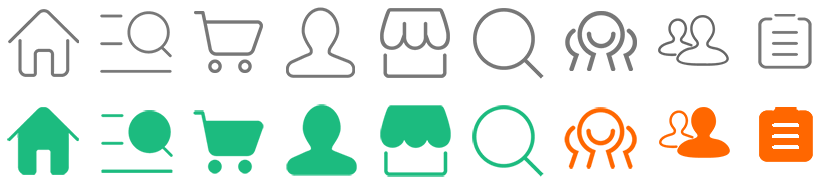
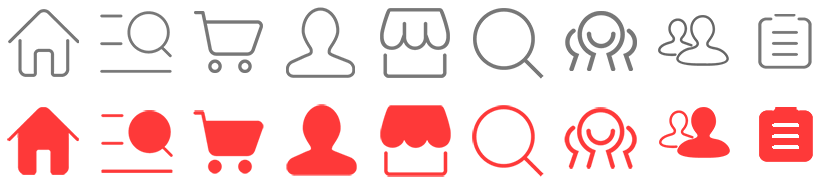
优化微筹

diff --git a/themes/default/team/css/ectouch.css b/themes/default/team/css/ectouch.css
@@ -1422,19 +1422,19 @@ h4.title-hrbg hr{background:#f6f6f9;height:1px;border:0;position:absolute;left:0
 .fly_item {z-index: 49999; border:1px solid #ccc;width:30px; height: 30px;border-radius: 100%; overflow: hidden; position: absolute; visibility: hidden; opacity: .9;}
 /*二维码*/
 .ect-header-banner{background:rgba(53,53,53,1); height:5rem; line-height:5rem; width:100%; color: #fff;moz-transition : 0.5s ease ;-o-transition: 0.5s ease;-webkit-transition :0.5s ease;    padding: 0 0.6 rem;}
-.ect-header-banner.active{display:none;moz-transition : 0.5s ease ;-o-transition: 0.5s ease;-webkit-transition :0.5s ease;    padding: 0 0.6 rem;}
+.ect-header-banner.active{display:none;moz-transition : 0.5s ease ;-o-transition: 0.5s ease;-webkit-transition :0.5s ease;    padding: 0 0.6rem;}
 .ect-header-banner i{color:#fff; font-size:2rem; margin-left:1rem;}
 .ect-header-banner img{width:3.4rem; height:auto; margin-left:2rem; margin-top:0.8rem;}
 .ect-header-banner .ect-header-text{padding-left:1.1rem; margin-top:1.1rem;}
 .ect-header-banner h4{font-size:1.5rem; line-height: 1.3rem;}
 .ect-header-banner p{font-size:1.3rem; color:#ccc;line-height: 1.9rem;}
-.ect-header-banner .btn-submit1{padding:.6rem 1rem; margin-top:-.3rem;border-radius: .4rem; font-size:1.3rem; margin-right:2rem; color:#fff; border-color:#1cbb7f;background:#1cbb7f;}
-.ect-header-banner .btn-submit1:hover{border-color:#1cbb7f;background:#1cbb7f;}
+.ect-header-banner .btn-submit1{padding:.6rem 1rem; margin-top:-.3rem;border-radius: .4rem; font-size:1.3rem; margin-right:2rem; color:#fff; border-color:#fe3939;background:#fe3939;}
+.ect-header-banner .btn-submit1:hover{border-color:#fe3939;background:#fe3939;}
 .index-weixin-box{margin:0 auto;position:fixed;top:20%;left:20%;right:20%;z-index: 16;background: #fff;padding: 0.5rem; box-shadow: 0px 5px 10px rgba(0,0,0,0.6);border-radius: 0.5rem;display:none}
 .index-weixin-box div img{width:100%;}
 .index-weixin-box p{font-size:1.5rem;color:#888;}
 .index-bg-box{background:rgba(0,0,0,0.8);position:fixed;top:0;left:0;right:0;bottom:0;z-index:15;display:none}
 .index-weixin-box label{position:absolute;right:-2rem;top:-4rem;background:rgba(255,255,255,0.7);padding:0.5rem;height: 2rem;width:2rem;border-radius:100%;}
 .index-weixin-box label i{display:block;text-align:center;line-height:2rem;color:#888}
-.index-weixin-box h3{font-size:1.6rem;color:#1cbb7f;text-align:center;}
+.index-weixin-box h3{font-size:1.6rem;color:#fe3939;text-align:center;}
 .index-weixin-box.active,.index-bg-box.active{display:block;}

diff --git a/themes/default/statics/css/ectouch.css b/themes/default/statics/css/ectouch.css
@@ -2687,7 +2687,7 @@ span.raise-pro-right{position: absolute;top:25%;right:1.2rem;}
 .btn-submit-raise:hover {border:1px solid #fe3939;background:#fe3939;}/*主提交按钮按下颜色*/
 .raise-cate-nav li.current {color:#fe3939;outline:none;}
 .goods-fixed-raise{position:fixed;top:0;z-index:199;width:100%;max-width:640px;background:rgba(255,255,255,0);}
-.goods-fixed-raise.active{background:rgba(255,103,0,0.96);box-shadow: 1px 0px 4px rgba(50,50,50,0.3);}
+.goods-fixed-raise.active{background:rgba(254,57,57,0.96);box-shadow: 1px 0px 4px rgba(50,50,50,0.3);}
 .goods-header-nav-box-raise li a{color:rgba(255,255,255,0.8);display:block;}	
 .goods-header-nav-box-raise li a.hover{color:#fff;border-bottom:1px solid #fff;}
 .tab-title-raise.active,.tab-title-raise.active a{color:#fe3939}
@@ -2905,3 +2905,6 @@ h5.title-hrbg {font-size: 1.3rem;position: relative; z-index:1; height: 4rem;lin
 h5.title-hrbg span {background: #e7e8ef;padding: 1rem .6rem;font-size: 1.5rem; z-index: 10;}
 h5.title-hrbg hr {background: #CCCBD9;height: 1px;border: 0;position: absolute;left: 0;right: 0;top: 50%;margin-top: 1px;z-index: -1;}
 .n-cate-box-1 .icon-biaoqingleiben{font-size:8rem;text-align: center;color:#999;display:block;padding:3rem 0 .6rem 0}
+
+.raise-button .icon-Collapse{text-align: center;display:block;width: 100%;color:#999;}
+.raise-cate-nav a .icon-viewlist{font-size:1.6rem;}

diff --git a/themes/default/css/search_index.css b/themes/default/css/search_index.css
@@ -38,7 +38,7 @@ header{line-height:2rem}
 .attention-text{padding-top:0.6rem;}
 .attention-img {width: 4rem;}
 .attention-button{width:6rem;padding-top:0.88rem;} 
-.attention-button .button{  border: 0px;background: #05af10; width: 6rem; height: 2.5rem; border-radius: 5px;color: #fff;font-size:1.2rem} 
+.attention-button .button{  border: 0px;background: #fe3939; width: 6rem; height: 2.5rem; border-radius: 5px;color: #fff;font-size:1.2rem} 
 .index-max-box{position: fixed;z-index: 1000;top: 0;width: 100%; max-width: 640px;min-width: 320px;}
 .index-header{position:relative;}
 
@@ -116,7 +116,7 @@ header{line-height:2rem}
     .ect-index-menu ul li a h3{
         height: 1.6875rem;
         font-size: 1.8rem;
-        color: #1CBB7F;
+        color: #fe3939;
         line-height: 1.8rem;
         text-align: center;
     }

diff --git a/themes/default/css/index.css b/themes/default/css/index.css
@@ -3397,7 +3397,7 @@ h3 {
 }
     .index-more-list li span {
       font-size: 1.3rem;
-      color: #1CBB7F;
+      color: #fe3939;
       padding: 0; }
 
 .index-touch {
